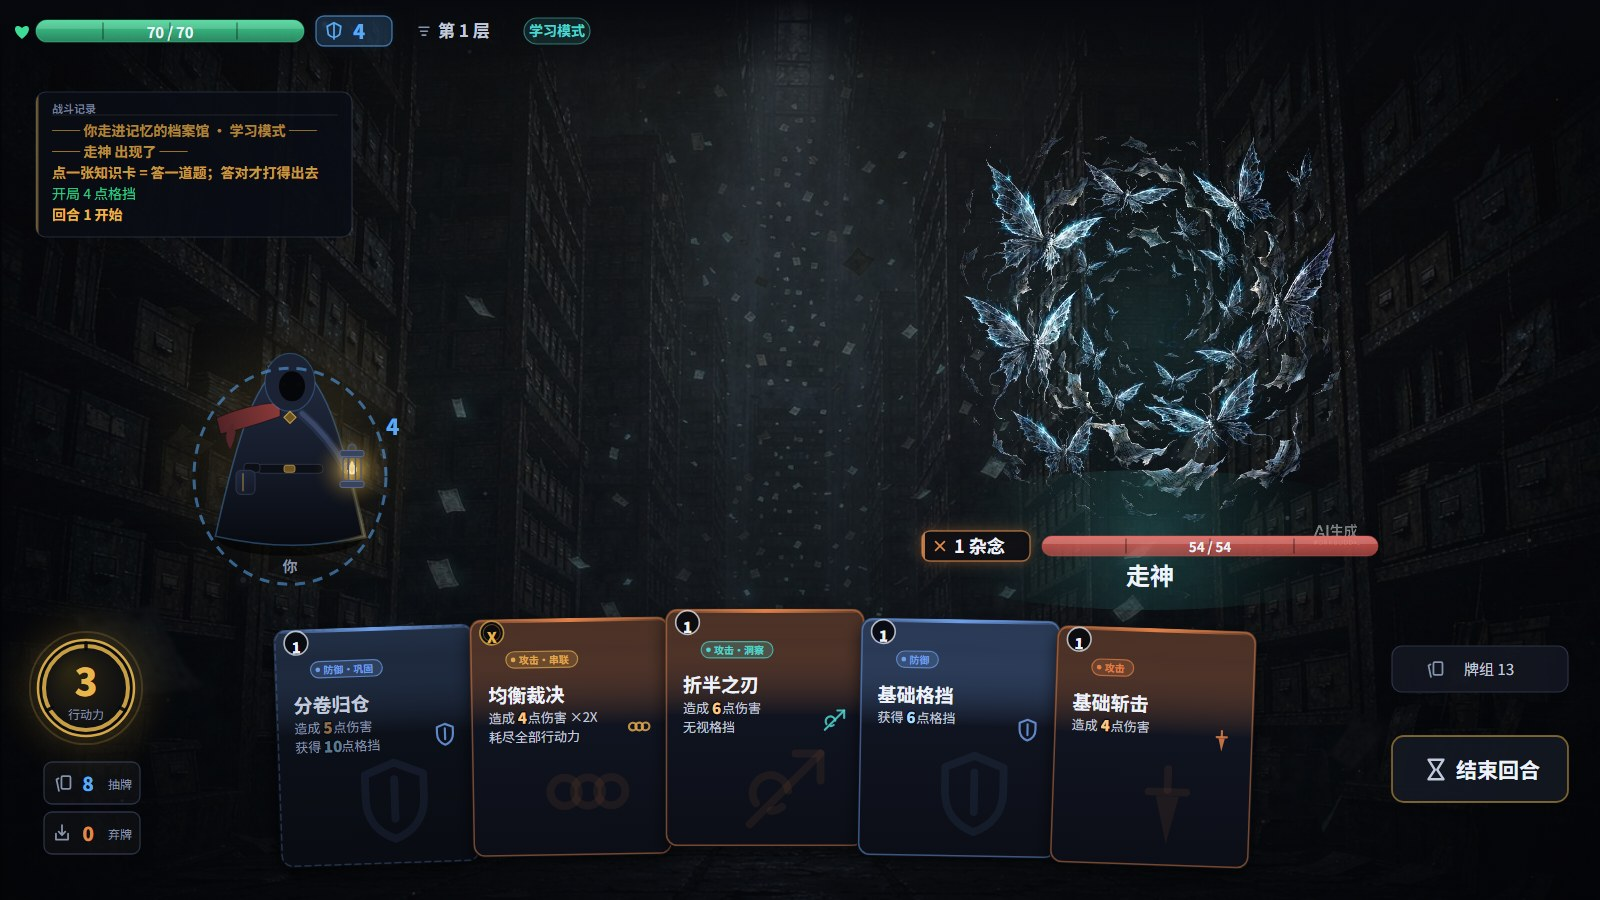
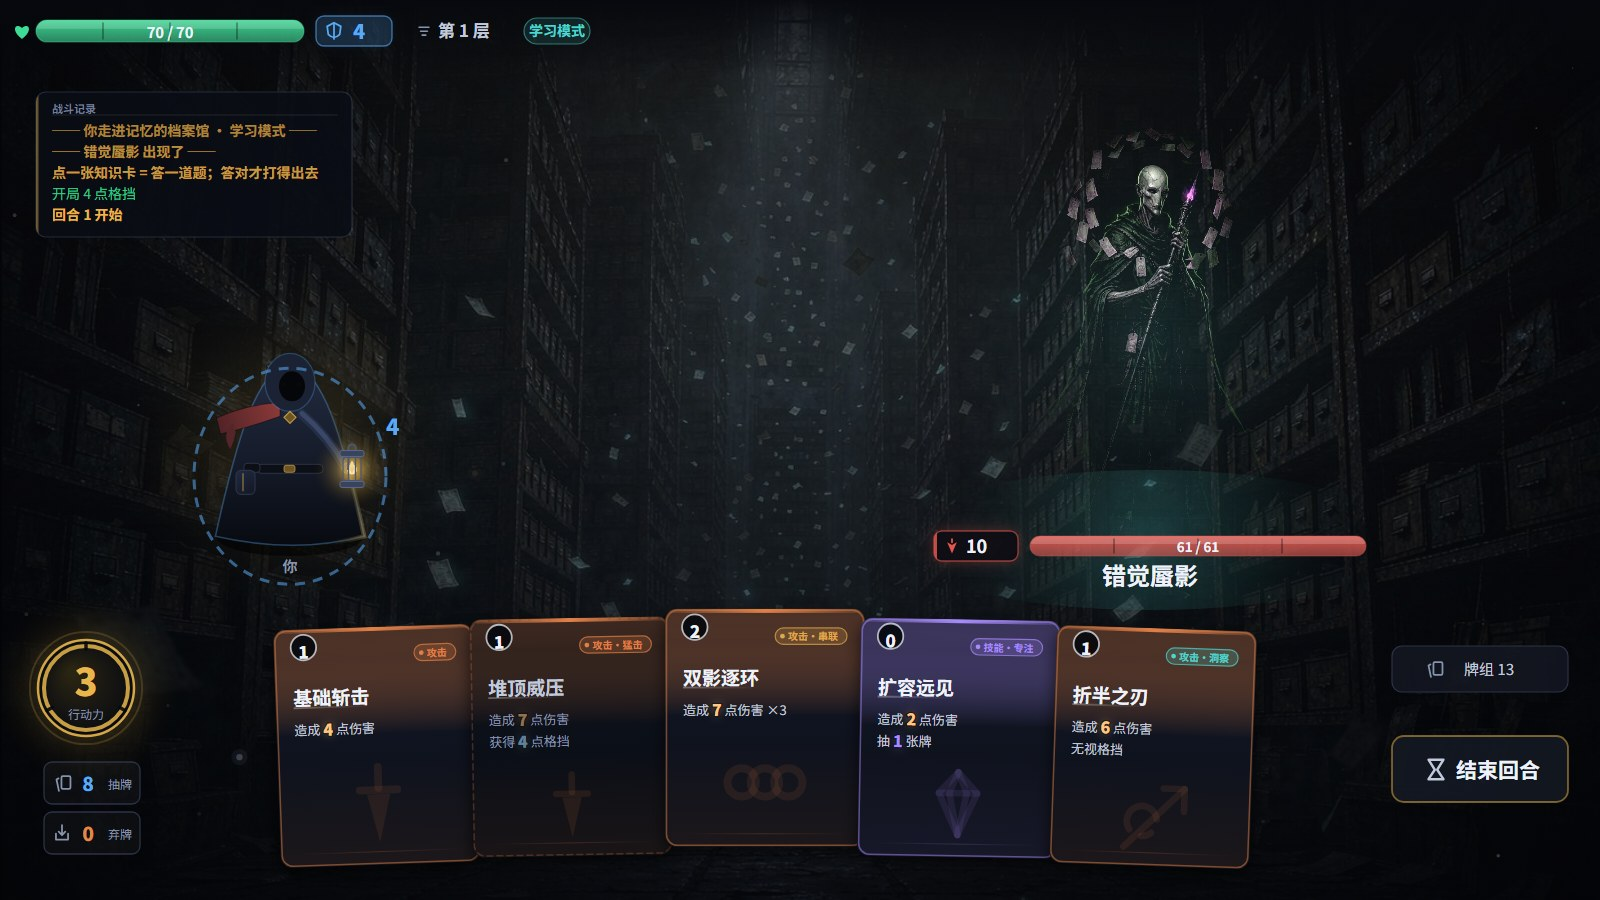
style(cards): 卡面按"顶部信息 → 牌名 → 效果 → 底纹"重新分段
问题不是不好看，是信息没有上下之分：费用球和类别徽章并排贴在一起，牌名紧跟效果，
下半部四成一片纯黑只压着 alpha 0.085 的纹章 —— 看着像没画完。

- 两个角各管一件事：费用球独占左上，类别徽章移到右上、右对齐
- 牌名下压一条白色渐隐短线（先试类别色，压在同类色卡面上读不出来）
- 纹章改为画在文字之前的底纹，并按"效果写完还剩多少地方"自适应大小与位置 ——
  一行效果的牌和四行的牌都填得满，不再写死 0.78h
- 下半部再浸一层同类色（0.08）：上下有颜色、中间最暗，文字区被框出来
- 修复数字量宽 bug：原来按 14px 量、17px 画，后缀位置永远偏左，"7 点伤害"一直贴着
- 精炼标记从右上角「精炼」改成名字后的金色「+」，右上角让给类别徽章
- 增益牌同步球位/右上「能力」/名字线，两种牌混排时不至于看出两套版式

check ✓ smoke 25 步 ✓ build 1,164.84 kB ✓ shots 19 张重拍。

diff --git a/src/gfx/ui.ts b/src/gfx/ui.ts
@@ -348,35 +348,48 @@ export function drawCard(
   const pad = w * 0.09;
   const s = w / 220;
 
+  // 底部再浸一层同色（比顶部弱得多）：卡面上下各有一层颜色，中间夹着的那段最暗，
+  // 文字区因此被"框"出来、对比反而更高；下半部也不再是一块纯黑 —— 没有这层底，
+  // 水印是漂在黑里的，像贴上去的一张贴纸。
+  g.save();
+  roundRect(x, y, w, h, r);
+  g.clip();
+  const lowH = h * 0.44;
+  const low = g.createLinearGradient(0, y + h - lowH, 0, y + h);
+  low.addColorStop(0, withAlpha(tc, 0));
+  low.addColorStop(1, withAlpha(tc, kind === 'junk' ? 0.03 : 0.08));
+  g.fillStyle = low;
+  g.fillRect(x, y + h - lowH, w, lowH);
+  g.restore();
+
   // ── 费用球：左上角 ─────────────────────────────────────────
   // 以前 83 张牌全是 1 点，这个角落空着是对的（印 83 遍同一个数不是信息）。
-  // 现在 0/1/2/3/X 并存，价格成了每张牌最该先读到的一个数，位置沿用杀戮尖塔的
-  // 左上角 —— 右上是锁章，左右各占一角，互不打架。
-  // 手牌排得再密，左边的牌也永远盖在这一张下面，所以费用不会被邻牌吃掉。
+  // 现在 0/1/2/3/X 并存，价格成了每张牌最该先读到的一个数。位置沿用杀戮尖塔的左上角，
+  // 但类别徽章已经挪到右上，所以这一角现在是它独占的 —— 上一版两者并排贴着摆，
+  // 手牌一缩小就糊成一团色块。
   if (kind !== 'junk') {
-    drawCostOrb(x + pad + 5 * s, y + 15 * s, 13 * s, costGlyph(card), {
+    drawCostOrb(x + pad + 13 * s, y + 20 * s, 14 * s, costGlyph(card), {
       x: isXCost(card), afford: opts.afford !== false,
     });
   }
 
-  // ── 正文：牌名 + 类别徽章 + 效果数字 ──────────────────────
-  // 卡面只有机械信息：叫什么、什么类别、打出去发生什么。
-  // 题干、主题、知识点、记忆度一概不出现 —— 那四样都是"知识"，不该在牌面上。
-  const lh = 25 * s;
-  const eh = 21 * s;
   const xc = isXCost(card);
+  const lh = 26 * s;
+  const eh = 24 * s;
 
-  // 类别徽章：知识卡写「类别 · 效果」（攻击·洞察 / 防御·巩固 / 技能·专注），
+  // ── 类别徽章：右上角 ─────────────────────────────────────
+  // 知识卡写「类别 · 效果」（攻击·洞察 / 防御·巩固 / 技能·专注），
   // 基础牌只写类别（攻击 / 防御）—— 它没有效果原型，只负责把数字换成伤害或格挡。
-  // 起点让开费用球（+20s），否则两者会在左上角叠成一团。
+  // 左上归费用、右上归类别，两个角各说一件事，中间那块空白正好留给牌名往上顶。
   const badgeName = kind === 'basic' ? typeMeta.name : `${typeMeta.name}·${eff.name}`;
   const badgeColor = kind === 'basic' ? typeMeta.color : eff.color;
-  const badgeX = x + pad + 20 * s;
   if (kind !== 'junk') {
     g.font = font(Math.round(11 * s), 700, FONT_UI);
     const lw = g.measureText(badgeName).width + 24 * s;
-    const ly = y + 36 * s;
-    roundRect(badgeX, ly, lw, 18 * s, 9 * s);
+    const bh = 18 * s;
+    const bx = x + w - pad - lw;
+    const by = y + 21 * s;
+    roundRect(bx, by, lw, bh, bh / 2);
     g.fillStyle = withAlpha(badgeColor, 0.2);
     g.fill();
     g.strokeStyle = withAlpha(badgeColor, 0.72);
@@ -384,56 +397,120 @@ export function drawCard(
     g.stroke();
     // 前面的小圆点比整块颜色更打眼，扫手牌时先看到点再看字
     g.beginPath();
-    g.arc(badgeX + 8 * s, ly + 9 * s, 2.6 * s, 0, Math.PI * 2);
+    g.arc(bx + 8 * s, by + bh / 2, 2.6 * s, 0, Math.PI * 2);
     g.fillStyle = badgeColor;
     g.fill();
-    text(badgeName, badgeX + 14 * s, ly + 9.5 * s, {
+    text(badgeName, bx + 14 * s, by + bh / 2 + 0.5, {
       size: Math.round(11 * s), align: 'left', color: badgeColor, weight: 700,
     });
   }
 
-  // 牌名正文：最多两行，超出截断（牌名都控制在七个字以内，两行只是兜底）。
-  // 版式改成"从上往下读"：类别徽章 → 牌名 → 效果，下半部留给纹章水印。
-  // 以前正文是垂直居中排的，撤掉主题行和记忆条之后居中会留出一大块空，读起来散。
+  // ── 牌名：卡面上唯一的大字 ──────────────────────────────
+  // 读序是「顶部信息 → 牌名 → 效果 → 下半的纹章」。
+  // 牌名和效果行之间压一条同色渐隐的短线：不加这条线，两段白字在暗底上是同一团，
+  // 眼睛得逐行去数才知道读到哪了（尤其牌名两个字、效果两行的牌）。
+  // 字体要先设、再调 wrapText —— 换行是按当前字体的宽度量的，
+  // 顺序反了就会用上一次遗留的字号去断行。
   g.font = font(Math.round(21 * s), 700, FONT_UI);
   const nameLines = kind === 'junk' ? ['杂念'] : wrapText(card.name, w - pad * 2).slice(0, 2);
-  const by0 = y + 84 * s;
+  const by0 = y + 76 * s;
 
-  // 锁着 = 现在用不了。灰字是这件事的通行语言，比在牌面下沿补一行解释更直接，
-  // 也不用为"一个字的状态"占掉一整条。已解锁的牌才是全亮的。
+  // ── 水印：整张卡的底纹 ─────────────────────────────────────
+  // 两条规矩：
+  //
+  // 1. 它必须画在**文字之前**。上一版画在最后，等于把一层影子盖在效果行上 ——
+  //    alpha 再低也是在压字，于是只好压到 .085，下半部看起来就像"没画完"。
+  //    放到最底层就没这个两难，可以放心画到 .12。
+  // 2. 位置和大小按"效果写完还剩多少地方"算，不是写死一个高度。写死的话：
+  //    一行效果的牌（猛击类）下半空出一大片，三行的牌（X 费）又会和字挤在一起。
+  //    现在按剩余空间取中间、按可用高度定尺寸，一行和四行的牌都填得满。
+  const rows = (per > 0 ? 1 : 0)
+    + (out.blk > 0 || out.pierce || out.healRatio > 0 || out.draw > 0 ? 1 : 0)
+    + (xc ? 0.75 : 0);
+  const textBot = by0 + nameLines.length * lh + 9 * s + rows * eh;
+  const bottomY = y + h - 15 * s;
+  const room = Math.max(0, bottomY - textBot);
+  const artS = Math.min(h * 0.42, Math.max(h * 0.22, room * 1.05));
+  drawArtIcon(
+    kind === 'junk' ? 'junk' : eff.key,
+    x + w * 0.5, textBot + room * 0.5, artS,
+    kind === 'junk' ? C.faint : tc,
+    { alpha: kind === 'junk' ? 0.2 : 0.1 },
+  );
+
+  // 这一回合答错过了 = 现在用不了。灰字是这件事的通行语言，
+  // 比在牌面下沿补一行解释更直接，也不用为"一个字的状态"占掉一整条。
   const bodyCol = kind === 'junk' ? C.faint : sealed ? C.dim : C.ink2;
 
   g.fillStyle = kind === 'junk' ? C.dim : sealed ? C.ink2 : C.ink;
   g.textAlign = 'left';
   nameLines.forEach((ln, i) => g.fillText(ln, x + pad, by0 + i * lh));
 
-  // 效果：数字单独放大上色，和卡牌游戏里"造成 6 点伤害"的读法一致
-  const ey = by0 + nameLines.length * lh;
+  // 精炼 = 这张牌打过一遍、证明过了。标记从右上角的「精炼」两个字改成名字后面的
+  // 一个「+」（杀戮尖塔的写法）：右上角要完整让给类别徽章，而「名字＋」本来就是
+  // 一句话读下来的，不必在另一个角上再立两个字。
+  if (opts.up) {
+    const nw = g.measureText(nameLines[0] ?? '').width;
+    text('+', x + pad + nw + 1.5 * s, by0, {
+      size: Math.round(21 * s), weight: 800, color: C.gold,
+    });
+  }
+
+  // 名字下的短线：长度跟着名字走，向右渐隐 —— 它是分隔符，不是装饰框
+  if (kind !== 'junk') {
+    const nw = Math.max(40 * s, Math.min(w - pad * 2, g.measureText(nameLines[0] ?? '').width));
+    const uy = by0 + (nameLines.length - 1) * lh + 9.5 * s;
+    const ug = g.createLinearGradient(x + pad, 0, x + pad + nw, 0);
+    // 用白而不是类别色。第一版是 tc（0.6 alpha）：在同类色的卡面上根本读不出来 ——
+    // 技能牌的紫线压在紫底上等于没画。白线在八种卡面上都稳，而且它只做分隔，
+    // 不带语义，本来也不该抢类别的颜色。
+    ug.addColorStop(0, 'rgba(255,255,255,.32)');
+    ug.addColorStop(0.6, 'rgba(255,255,255,.1)');
+    ug.addColorStop(1, 'rgba(255,255,255,0)');
+    g.fillStyle = ug;
+    g.fillRect(x + pad, uy, nw, Math.max(1.6, 2 * s));
+  }
+
+  // ── 效果：动词小、数字大、单位跟着小 ──────────────────────
+  // 和卡牌游戏里"造成 6 点伤害"的读法一致：一眼扫过去先接住数字，再接住单位。
+  const ey = by0 + nameLines.length * lh + 9 * s;
   const effLine = (pre: string, num: number, suf: string, yy: number, col: string) => {
+    const ns = String(num);
+    const small = Math.round(14 * s);
+    const big = Math.round(18 * s);
     g.textAlign = 'left';
-    g.font = font(Math.round(14 * s), 400, FONT_UI);
+    g.font = font(small, 400, FONT_UI);
     g.fillStyle = bodyCol;
-    g.fillText(pre, x + pad, yy);
-    const w1 = g.measureText(pre).width;
+    if (pre) g.fillText(pre, x + pad, yy);
+    const w1 = pre ? g.measureText(pre).width : 0;
+    let w2 = 0;
     if (num > 0) {
+      // 数字必须用它自己的字号量宽度。上一版按正文的 14px 量、按 17px 画，
+      // 算出来的位置永远偏左，数字和后缀会贴在一起（"造成 7 点伤害"里那个 7 就挤）。
+      g.font = font(big, 800, FONT_UI);
+      w2 = g.measureText(ns).width;
       g.save();
-      g.font = font(Math.round(17 * s), 800, FONT_UI);
-      // 先描一圈暗边再填色：牌面底色是类别色浸下来的，同色系数字只靠放大
-      // 是立不住的（攻击牌的橙色 6 叠在橙色卡面上最明显），一道暗边把数字
-      // 从背景里"抠"出来，六个效果共用这一条，不用逐个调色。
+      // 先描一圈暗边：牌面底色是类别色浸下来的，同色系数字只靠放大立不住
+      // （攻击牌的橙色 6 叠在橙色卡面上最明显），一道暗边把数字从背景里"抠"出来，
+      // 六个效果共用这一条，不用逐个调色。
       g.lineJoin = 'round';
       g.lineWidth = 3 * s;
-      g.strokeStyle = 'rgba(6,8,13,.8)';
-      g.strokeText(String(num), x + pad + w1, yy);
-      // 锁着的牌数字跟着压暗：亮红亮蓝会让玩家以为现在就能打出去
+      g.strokeStyle = 'rgba(6,8,13,.85)';
+      g.strokeText(ns, x + pad + w1, yy);
+      // 一点同色辉光：暗底上让数字先跳出来。可读性由描边负责，所以光很弱 ——
+      // 亮过头，整行字会糊成一片。
+      g.shadowColor = withAlpha(col, 0.5);
+      g.shadowBlur = 9 * s;
+      // 这一回合答错过的牌，数字跟着压暗：亮红亮蓝会让玩家以为现在就能打出去
       g.fillStyle = kind === 'junk' ? C.faint : sealed ? withAlpha(col, 0.55) : col;
-      g.fillText(String(num), x + pad + w1, yy);
+      g.fillText(ns, x + pad + w1, yy);
       g.restore();
     }
-    const w2 = num > 0 ? g.measureText(String(num)).width : 0;
-    g.font = font(Math.round(14 * s), 400, FONT_UI);
-    g.fillStyle = bodyCol;
-    g.fillText(suf, x + pad + w1 + w2, yy);
+    if (suf) {
+      g.font = font(small, 400, FONT_UI);
+      g.fillStyle = bodyCol;
+      g.fillText(suf, x + pad + w1 + w2, yy);
+    }
   };
   if (kind === 'junk') {
     effLine('无法打出', 0, '', ey, C.faint);
@@ -461,32 +538,25 @@ export function drawCard(
     } else if (out.draw > 0) { effLine('抽 ', out.draw, ' 张牌', ly, eff.color); ly += eh; }
     // X 费牌必须自己说清"X 是多少" —— 牌面上只有一个 X 字形，不写这一句，
     // 玩家会以为它是"某个固定数字"而不是"这回合剩下的行动力"。
-    if (xc) effLine('耗尽全部行动力', 0, '', ly, C.dim);
+    // 它是注解不是第二项效果，所以字号降一档、染成金色，跟上面的数字行读开。
+    if (xc) {
+      g.textAlign = 'left';
+      g.font = font(Math.round(12.5 * s), 700, FONT_UI);
+      g.fillStyle = withAlpha(C.gold, 0.8);
+      g.fillText('耗尽全部行动力', x + pad, ly + 1 * s);
+    }
   }
 
-  // 效果纹章：按效果原型画一枚小徽记压在右下。六种效果六种形，
-  // 扫手牌时不用读字就能把"串联"和"洞察"分开；杂念是一团乱线。
-  drawArtIcon(
-    kind === 'junk' ? 'junk' : eff.key,
-    x + w - pad - 15 * s, ey + eh * 0.55,
-    (kind === 'junk' ? 25 : 30) * s,
-    kind === 'junk' ? C.faint : eff.color,
-    { alpha: kind === 'junk' ? 0.45 : 0.85 },
-  );
-
-  // 水印：用效果纹章放大压在下半部，单纯填版面 —— 它是机械信息，不是知识。
-  // 以前这里是主题首字，等于把"这张牌属于哪一块知识"印在牌面上，撤掉了。
-  // 底部那行状态带撤掉之后下半部更空了，纹章相应放大一圈，让留白是留白、不是没画完。
+  // 卡面收底：一条几乎看不见的横线。没有它，效果行下面就是一片黑，
+  // 牌的"下沿"是理出来的、不是画出来的 —— 有这条线，下半部才叫留白。
   if (kind !== 'junk') {
-    drawArtIcon(eff.key, x + w * 0.58, y + h * 0.73, h * 0.42, tc, { alpha: 0.085 });
-  }
-
-  // 精炼标记
-  if (opts.up) {
-    g.font = font(Math.round(14 * s), 800, FONT_UI);
-    g.fillStyle = C.gold;
-    g.textAlign = 'right';
-    g.fillText('精炼', x + w - pad - 26 * s, y + 24 * s);
+    const fy = y + h - 15 * s;
+    const fg = g.createLinearGradient(x + pad, 0, x + w - pad, 0);
+    fg.addColorStop(0, withAlpha(tc, 0));
+    fg.addColorStop(0.5, withAlpha(tc, 0.2));
+    fg.addColorStop(1, withAlpha(tc, 0));
+    g.fillStyle = fg;
+    g.fillRect(x + pad, fy, w - pad * 2, Math.max(1, 0.8 * s));
   }
 
   if (opts.note) {
@@ -553,43 +623,71 @@ function drawPowerCard(x: number, y: number, w: number, h: number, p: PowerDef, 
 
   // 费用球和知识卡同一个位置、同一套读法 —— 手牌里两种牌混着，
   // "要先答题的"和"不用答题的"可以长得不一样，但"要花几点"必须读得一样。
-  drawCostOrb(x + pad + 5 * s, y + 15 * s, 13 * s, String(p.cost).toUpperCase(), {
+  drawCostOrb(x + pad + 13 * s, y + 20 * s, 14 * s, String(p.cost).toUpperCase(), {
     x: p.cost === 'x', afford: opts.afford !== false,
   });
 
-  // 左上：类别标签（能力）+ 一个字的图标
-  const ly = y + 38 * s;
+  // 右上：类别标签（能力 + 一个字的图标）。位置和知识卡的「类别·效果」对齐 ——
+  // 于是"左上读价、右上读类别"这条视线在任何一张牌上都成立，不用分两种读法。
   g.font = font(Math.round(11 * s), 700, FONT_UI);
   const lw = g.measureText('能力').width + 38 * s;
-  const bx = x + pad + 20 * s;
-  roundRect(bx, ly - 9 * s, lw, 18 * s, 9 * s);
+  const bh = 18 * s;
+  const bx = x + w - pad - lw;
+  const by = y + 21 * s;
+  roundRect(bx, by, lw, bh, bh / 2);
   g.fillStyle = withAlpha(tc, 0.2);
   g.fill();
   g.strokeStyle = withAlpha(tc, 0.72);
   g.lineWidth = 1.2;
   g.stroke();
-  text(p.icon, bx + 9 * s, ly + 0.5, {
+  text(p.icon, bx + 9 * s, by + bh / 2 + 0.5, {
     size: Math.round(11 * s), weight: 800, align: 'center', color: tc,
   });
-  text('能力', bx + 18 * s, ly + 0.5, {
+  text('能力', bx + 18 * s, by + bh / 2 + 0.5, {
     size: Math.round(11 * s), align: 'left', color: tc, weight: 700,
   });
 
-  // 卡名
+  // 卡名。字体先设、再调 wrapText —— 换行是按当前字体的宽度量的，
+  // 顺序反了就会用上一次遗留的字号去断行（名短的牌看不出来，长的会断在奇怪的地方）。
+  g.font = font(Math.round(22 * s), 700, FONT_UI);
   const nameLines = wrapText(p.name, w - pad * 2).slice(0, 2);
   const lh = 27 * s;
+  const by0 = y + 78 * s;
   g.fillStyle = C.ink;
   g.textAlign = 'left';
-  g.font = font(Math.round(22 * s), 700, FONT_UI);
-  nameLines.forEach((ln, i) => g.fillText(ln, x + pad, y + 80 * s + i * lh));
+  nameLines.forEach((ln, i) => g.fillText(ln, x + pad, by0 + i * lh));
+
+  // 精炼标记。和知识卡一样用名字后的「+」，不用另立一行字
+  if (opts.up) {
+    const nw = g.measureText(nameLines[0] ?? '').width;
+    text('+', x + pad + nw + 1.5 * s, by0, {
+      size: Math.round(22 * s), weight: 800, color: C.gold,
+    });
+  }
+
+  // 名字下的短线：和知识卡同一处。两种牌混在手牌里，"名字"这一层要对得齐，
+  // 否则摊开一排会看出两种版式在打架。
+  {
+    const nw = Math.max(40 * s, Math.min(w - pad * 2, g.measureText(nameLines[0] ?? '').width));
+    const uy = by0 + (nameLines.length - 1) * lh + 9.5 * s;
+    const ug = g.createLinearGradient(x + pad, 0, x + pad + nw, 0);
+    // 用白而不是类别色。第一版是 tc（0.6 alpha）：在同类色的卡面上根本读不出来 ——
+    // 技能牌的紫线压在紫底上等于没画。白线在八种卡面上都稳，而且它只做分隔，
+    // 不带语义，本来也不该抢类别的颜色。
+    ug.addColorStop(0, 'rgba(255,255,255,.32)');
+    ug.addColorStop(0.6, 'rgba(255,255,255,.1)');
+    ug.addColorStop(1, 'rgba(255,255,255,0)');
+    g.fillStyle = ug;
+    g.fillRect(x + pad, uy, nw, Math.max(1.6, 2 * s));
+  }
 
   // 效果：这段字是唯一要读的内容，所以给它最大的字号和行距。
-  // 在「卡名下沿」和「底部分隔线」之间垂直居中 —— 否则短句会贴着卡名，下面留一大块空白。
-  const bodyTop = y + 80 * s + nameLines.length * lh + 10 * s;
+  // 在「名字下沿」和「底部分隔线」之间垂直居中 —— 否则短句会贴着卡名，下面留一大块空白。
+  const bodyTop = by0 + nameLines.length * lh + 12 * s;
   const bodyBot = y + h - 64 * s;
   g.font = font(Math.round(14 * s), 400, FONT_UI);
   g.fillStyle = C.ink2;
-  const lineH = 21 * s;
+  const lineH = 22 * s;
   const lines = wrapText(p.card, w - pad * 2);
   const off = Math.max(0, (bodyBot - bodyTop - lines.length * lineH) / 2);
   lines.forEach((ln, i) => {

diff --git a/CHANGELOG.md b/CHANGELOG.md
@@ -2,6 +2,31 @@
 
 ## 未发布
 
+### 卡面：把四层信息排开
+
+问题不是"不好看"，是**信息没有上下之分**。原来的卡面把所有东西挤在顶部四成：
+费用球和类别徽章并排贴着，牌名紧跟着效果，然后下半部四成是一片纯黑，只压着一个
+alpha 0.085 的纹章 —— 看上去像没画完。
+
+- **两个角各管一件事。** 费用球回到左上、单独一角；类别徽章从球旁边挪到右上、右对齐。
+  上一版两者并排，手牌一缩小就糊成一团色块。
+- **牌名下压一条白色渐隐短线**。牌名 19px、效果 13px，两段白字在暗底上原本是同一团，
+  得逐行数才知道读到哪。线先是画成类别色，实测在同类色的卡面上读不出来（技能牌的紫线
+  压在紫底上等于没画），改白之后八种卡面都稳。
+- **纹章改成底纹，并且按剩余空间自适应。** 它原来画在文字之后，等于一层影子盖在效果行上，
+  所以只能压到 .085。挪到最底层之后可以放心画到 .1，位置和尺寸按"效果写完还剩多少地方"
+  算 —— 一行效果的牌（猛击类）和四行的牌（X 费）现在都填得满，不再是一个写死的高度。
+- **下半部再浸一层同类色**（顶部 0.17、底部 0.08）。上下各有颜色、中间最暗，
+  文字区被"框"出来对比反而更高，底纹也不再是漂在纯黑上的一张贴纸。
+- **数字与后缀的间距修好了。** 原来的量宽按正文 14px、绘制按 17px，算出来的位置永远偏左，
+  "造成 7 点伤害"里的 7 和"点"一直是贴着的。现在数字用它自己的字号量宽，并加了一层
+  很弱的同色辉光（可读性由暗描边负责，光只是让数字先跳出来）。
+- **精炼标记**从右上角的「精炼」两个字改成名字后面的「+」（杀戮尖塔的写法），
+  右上角完整让给类别徽章。
+
+增益牌同步：费用球、右上「能力」徽章、名字下的短线都和知识卡对齐 —— 两种牌混在手牌里，
+"名字"这一层对不齐，一眼就看得出是两套版式。
+
 ### 机制：先把游戏立住，再把答题嵌进去
 
 起因是一句批评：**应该先设计好游戏机制，然后把答题嵌进去**。上一版是反过来的 ——
